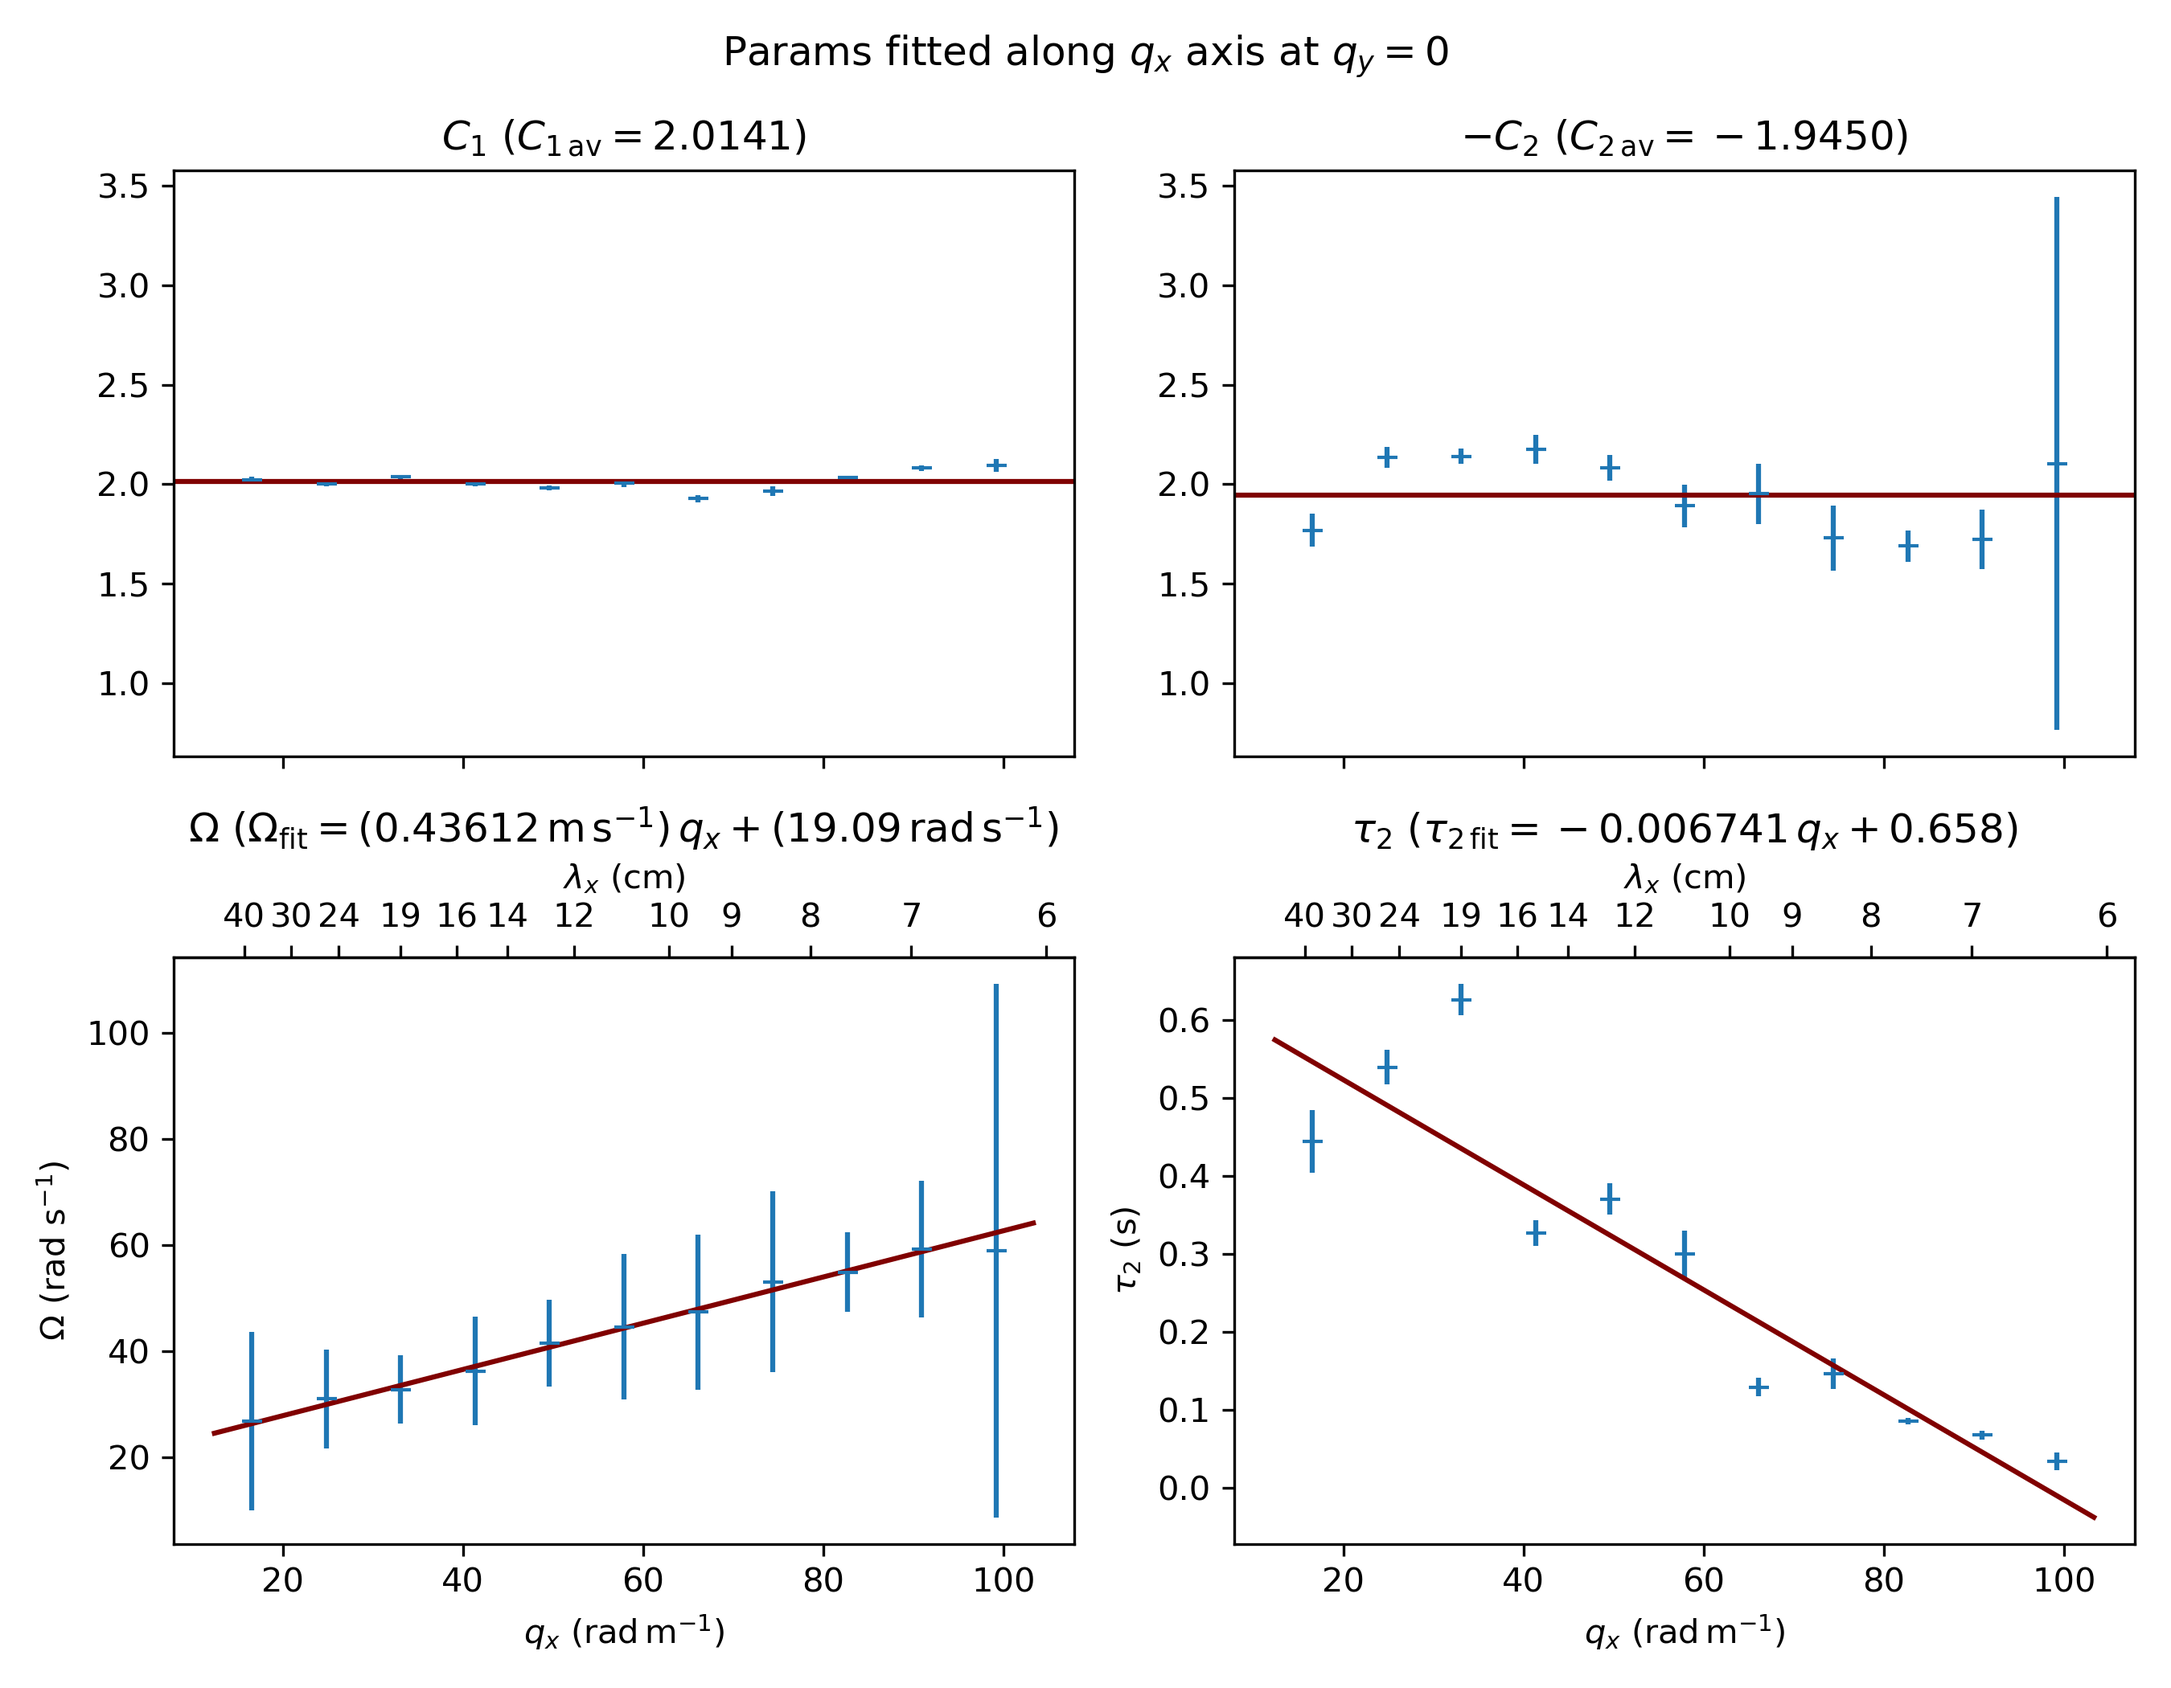
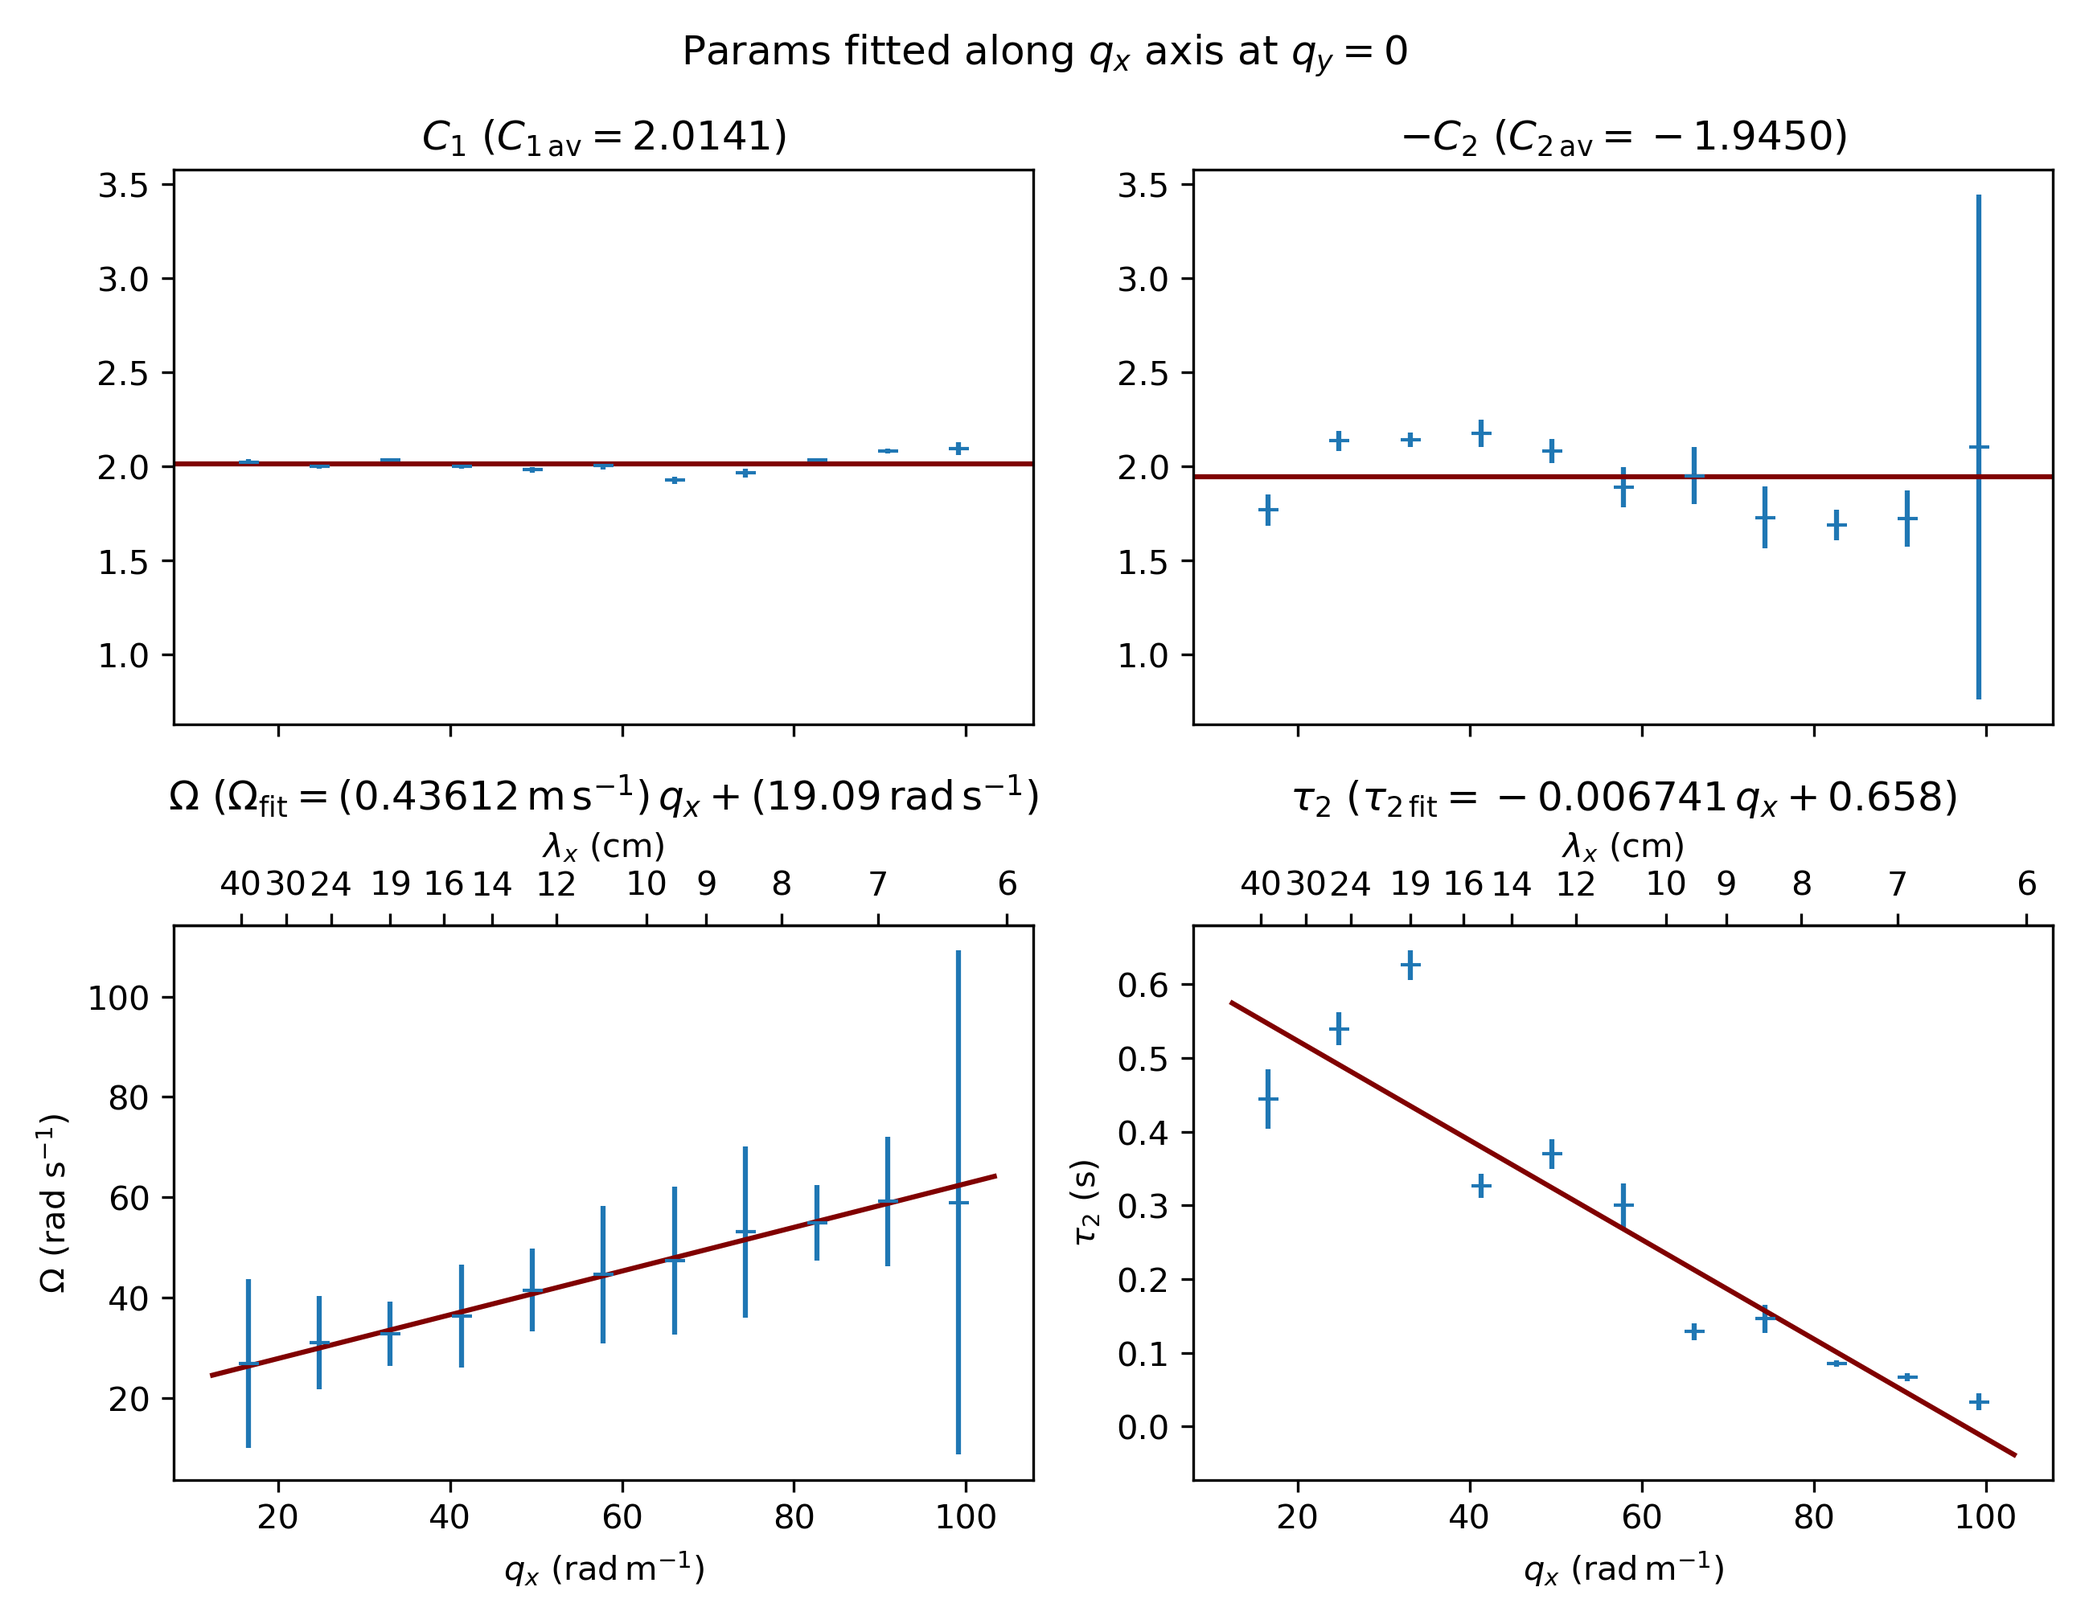
Add log plots for fitted tau2

diff --git a/plot/try2_taumodel_xaxis.py b/plot/try2_taumodel_xaxis.py
@@ -21,7 +21,8 @@ def linear_jac(x, a, b):
 parser = argparse.ArgumentParser()
 parser.add_argument('-t2r', '--tau2reciprocal', action='store_true',
                     help='plot reciprocal of tau2 instead of tau2 itself')
-parser.add_argument('-s', '--save', action='store_true')
+parser.add_argument('-s1', '--save1', action='store_true')
+parser.add_argument('-s2', '--save2', action='store_true')
 cli_params = parser.parse_args()
 
 cdir = p.abspath(p.dirname(__file__))
@@ -93,7 +94,12 @@ if cli_params.tau2reciprocal:
     tau2_reciproc_physical = np.reciprocal(tau2_physical)
     tau2_reciproc_err_physical = tau2_err_frac * tau2_reciproc_physical
 
-fig, ((axc1, axc2), (axfreq, axtau2)) = plt.subplots(2, 2, sharex=True, figsize=(9., 7.))
+figwidth_cm = 22
+figwidth_inch = figwidth_cm / 2.54
+figheight_inch = figwidth_inch * 7. / 9.
+figsize = (figwidth_inch, figheight_inch)
+
+fig1, ((axc1, axc2), (axfreq, axtau2)) = plt.subplots(2, 2, sharex=True, figsize=figsize)
 titles = (f'$C_1$ ($C_{{1\\,\\mathrm{{av}}}}={c1av:.4f}$)',
           f'$-C_2$ ($C_{{2\\,\\mathrm{{av}}}}={c2av:.4f}$)',
           f'$\\Omega$ ($\\Omega_\\mathrm{{fit}}='
@@ -129,11 +135,37 @@ for ax in (axfreq, axtau2):
     secax.set_xticks([6, 7, 8, 9, 10, 12, 14, 16, 19, 24, 30, 40])
 axfreq.set_ylabel('$\\Omega$ (rad $\\mathrm{s}^{-1}$)')
 axtau2.set_ylabel('$\\tau_2$ (s)')
-fig.suptitle('Params fitted along $q_x$ axis at $q_y=0$')
-fig.set_tight_layout(True)
+fig1.suptitle('Params fitted along $q_x$ axis at $q_y=0$')
+fig1.set_tight_layout(True)
 
-if cli_params.save:
-    fig_path = p.abspath(cdir + '/try2_taumodel_xaxis.png')
-    fig.savefig(fig_path, dpi=300)
-else:
+fig2, axtau2s = plt.subplots(2, 2, figsize=figsize)
+(axtau2lin, axtau2semilogx), (axtau2semilogy, axtau2loglog) = axtau2s
+for axtau2row in axtau2s:
+    for axtau2cell in axtau2row:
+        axtau2cell.errorbar(wavenumber_space, tau2_physical, tau2_err_physical,
+                            fmt='_', linestyle='')
+        axtau2cell.set_xlabel(f'$q_x$ (${wavenumber_unit}$)')
+        axtau2cell.set_ylabel('$\\tau_2$ (s)')
+for axtau2logy in (axtau2semilogy, axtau2loglog):
+    axtau2logy.set_yscale('log')
+for axtau2logx in (axtau2semilogx, axtau2loglog):
+    axtau2logx.set_xscale('log')
+axtau2lin.sharey(axtau2semilogx)
+axtau2lin.sharex(axtau2semilogy)
+axtau2loglog.sharey(axtau2logy)
+axtau2loglog.sharex(axtau2logx)
+axtau2lin.set_title('$\\tau_2$ linear plot')
+axtau2semilogx.set_title('$\\tau_2$ semilog x plot')
+axtau2semilogy.set_title('$\\tau_2$ semilog y plot')
+fig2.set_tight_layout(True)
+
+axtau2loglog.set_title('$\\tau_2$ log-log plot')
+if not (cli_params.save1 or cli_params.save2):
     plt.show()
+else:
+    if cli_params.save1:
+        fig1_path = p.abspath(cdir + '/try2_taumodel_xaxis.png')
+        fig1.savefig(fig1_path, dpi=300)
+    if cli_params.save2:
+        fig2_path = p.abspath(cdir + '/try2_taumodel_xaxis_tau2.png')
+        fig2.savefig(fig2_path, dpi=300)
